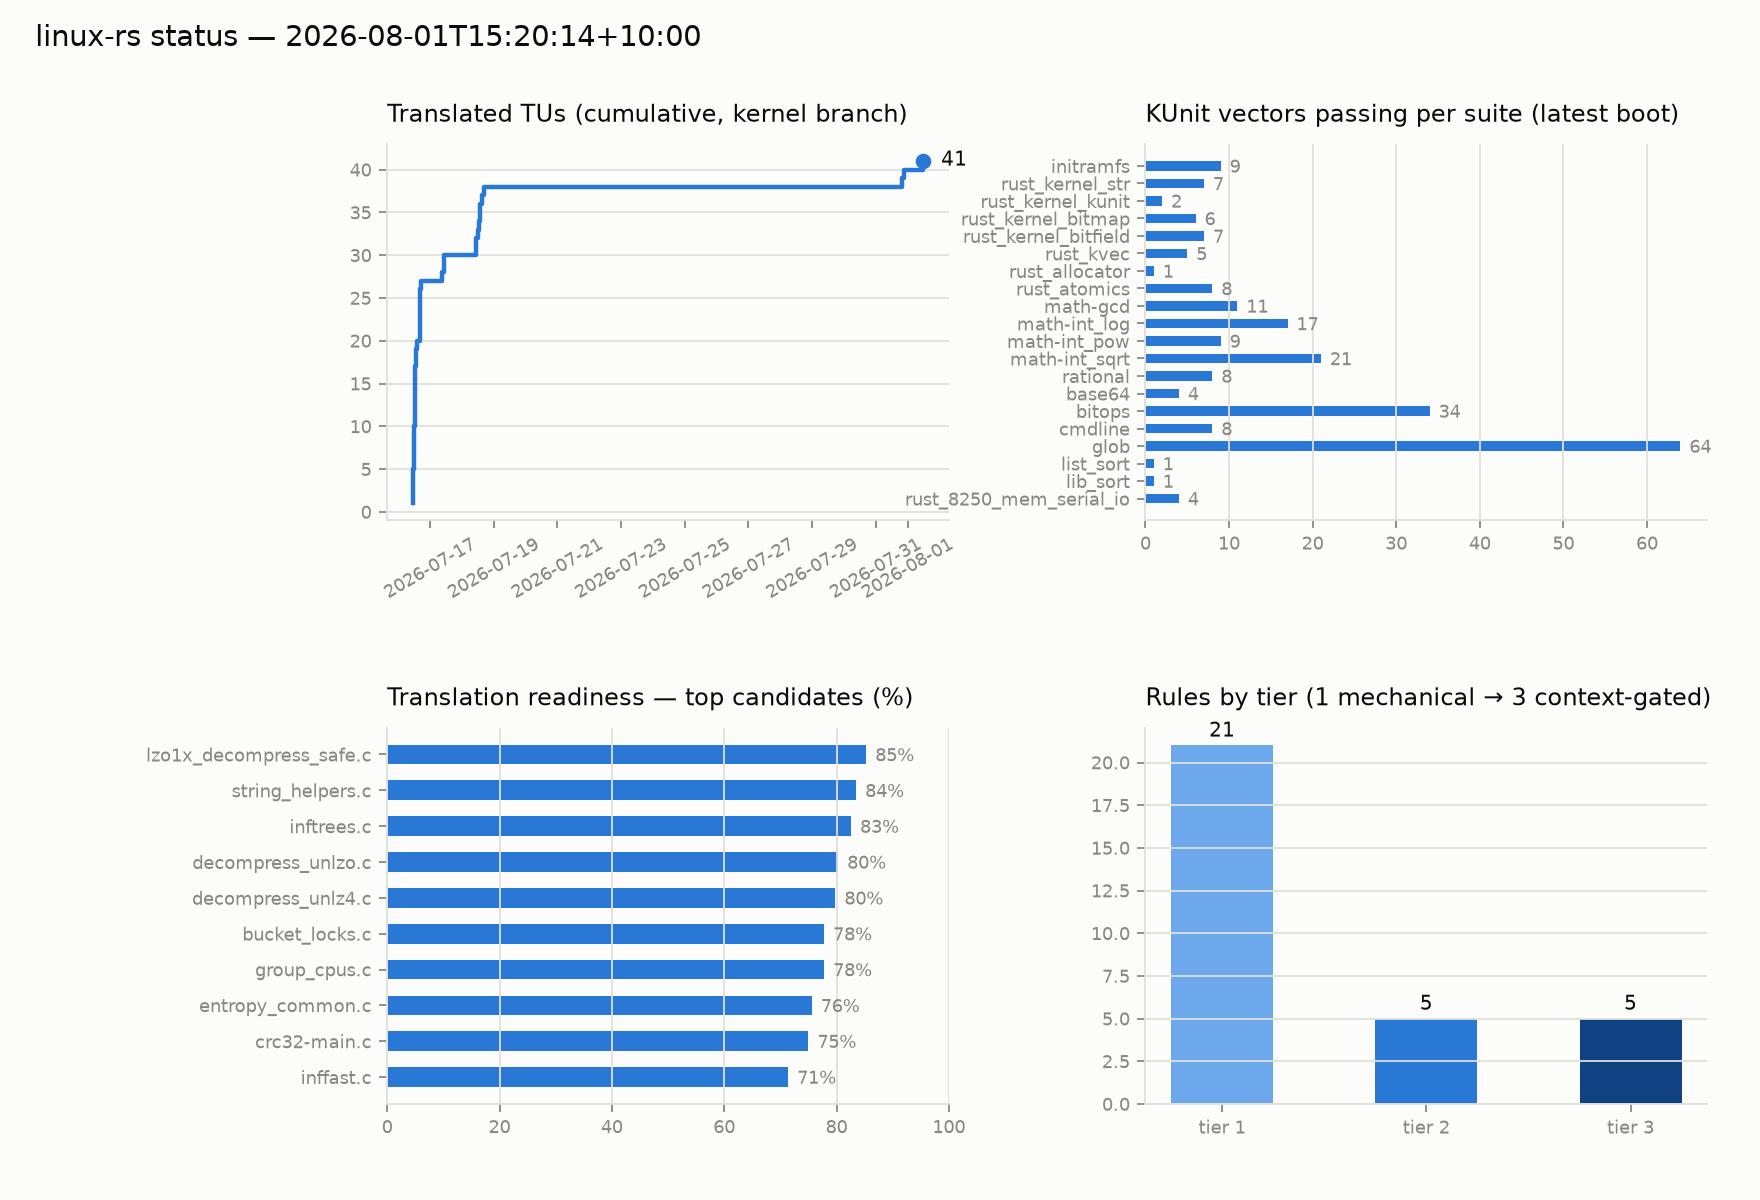
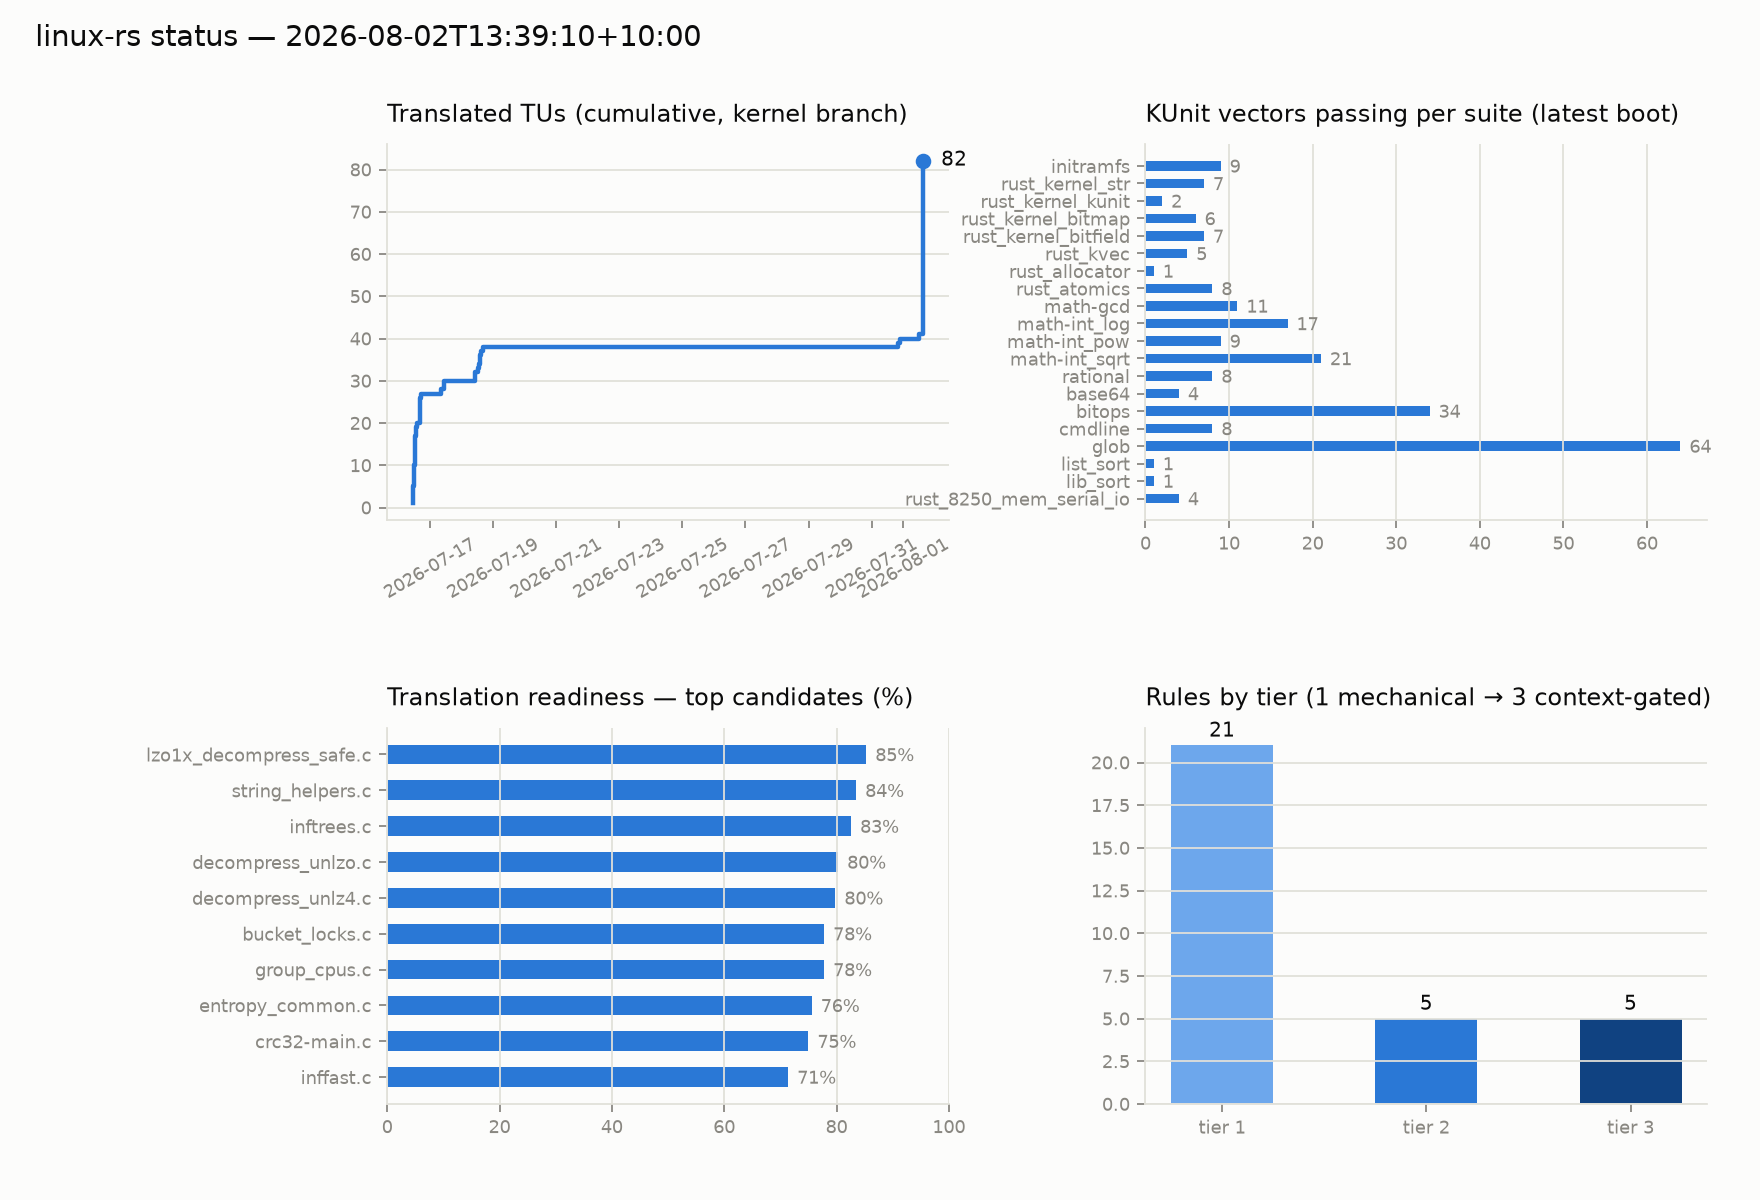
Document #28 multi-file combined-boot test: klist+sys_info+rcuref, 20/20 KUnit
First real test of issue #28's actual ask (multiple c2rust-transpiled
files in one boot, not one-file-per-boot). Clean combined boot; found
and fixed two genuine combination-only bugs (duplicate register
pseudo-globals across TUs, libc2rust_bitfields.rlib never linked into
vmlinux) — the latter already landed on the kernel tree separately.

Changed region(s): [[0.1875, 0.1233, 0.5312, 0.4933]]

diff --git a/docs/combined-boot-multi-file-2026-08-02.md b/docs/combined-boot-multi-file-2026-08-02.md
@@ -1,0 +1,178 @@
+# Combined-image boot test: 3 c2rust-transpiled files in one image
+
+First real test of issue #28's actual ask — multiple c2rust-transpiled
+files wired into *one* kernel image and boot-screened together, as
+opposed to the 22 individual one-file-per-boot attempts documented in
+`combined-boot-attempt-2026-07-18.md`. That doc proved the mechanism
+works per-file; this one proves it still works when files are combined,
+and surfaces two real bugs that only exist at combination time.
+
+## Candidate selection
+
+Per #28's explicit scope limit ("genuinely on/near the current boot
+path, not an arbitrary sample"), a dedicated research pass across the
+14-file individual-candidate shortlist found real boot-path-execution
+evidence for only two files, plus one link-clean-only filler kept to
+exercise the 3-file batching mechanism itself:
+
+- **`lib/klist.c`** — proven executed: caused a real crash in an
+  earlier bisection (`load_page_fault` inside `klist_add_tail`, via
+  `get_current()`'s now-fixed accessor bug), reached through
+  `spin_unlock()`'s preemption-check path hit by every `klist_add_head`/
+  `klist_add_tail` call during real `device_add()` traffic at boot.
+- **`lib/sys_info.c`** — proven `.initcall4.init` entry that executes
+  every boot (though its 3 real functions are panic/hung-task/watchdog
+  path only, not exercised by a clean boot).
+- **`lib/rcuref.c`** — link-clean filler, no proven natural-boot-path
+  execution; included specifically to test whether the batching
+  mechanism itself (3 files, 1 Kconfig gate, 1 boot) scales, not to
+  claim its own code ran.
+
+Worktree `combined-boot-28`, branch `agent-combined-boot-28`, based on
+`linux-rs/phase2-gcd`. New `CONFIG_RUST_C2RUST_BOOT_TEST` in
+`lib/Kconfig`; `lib/Makefile` pulled all three `.o`s out of their
+bundled `lib-y`/`obj-y` lines and gated `klist_rs.o`/`sys_info_rs.o`/
+`rcuref_rs.o` on the new config.
+
+## Fresh transpile, not the 2026-07-18 baseline
+
+Re-ran `c2rust_reference_check.py` at current `awtoau/c2rust` HEAD
+(`7a7b63b804e3`) rather than reusing the old doc's cached output.
+`REFERENCE-CHECK: 3/3 OK`. Two real transpiler improvements confirmed
+by diffing against the fixes the old doc had to hand-apply:
+
+- `klist.c`'s `get_current()` now compiles directly to
+  `asm!("mv {0}, tp", ...)` — the exact hand-fix the original attempt
+  needed is now the transpiler's own default output.
+- `sys_info.c`'s `sys_info_sysctl_init` now carries
+  `#[link_section = ".init.text"]` automatically — the `__init`
+  section-drop bug the 2026-07-18 doc found and hand-fixed is gone.
+- `sys_info_rs.rs`'s 7 `BitfieldStruct`-derived structs (`task_struct`,
+  `mmap_action`, `kobject`, etc.) needed **no** manual opaquing this
+  time — `c2rust_bitfields`/`c2rust_bitfields_derive` are now wired
+  into the real Kbuild path (issue #55), so the file built clean
+  raw. (This uncovered its own bug at link time — see below.)
+
+## Fix classes actually needed, per file
+
+**`lib/klist_rs.rs`** (6 fixes, all previously-documented classes):
+stripped an unused `#![feature(label_break_value)]`; converted 13
+`#[export]` sites to `#[no_mangle]` (no `EXPORT_SYMBOL` in the C
+original visible to bindgen); rewrote `LIST_POISON1`/`LIST_POISON2`
+from `.offset()`-on-bare-integer (E0080, fails const-eval) to plain
+`wrapping_add`+cast; renamed a parameter shadowing c2rust's own
+generated `klist` type; deleted the dead `current_stack_pointer`
+register-pseudo-global; fixed 14 RISC-V asm bracket-addressing sites
+(`[{N}]` → `0({N})`, issue #29's class). Also removed the 4
+Zacas/Zabha ISA-guard `if riscv_has_extension_unlikely(...) {amocas
+fast path} else {LR/SC fallback}` wrappers down to just the
+unconditional LR/SC fallback — LLVM rejects the `amocas.*`
+instructions regardless of the runtime guard (issue #29).
+
+**`lib/sys_info_rs.rs`**: zero fixes needed — built clean as raw
+transpile output (both gap classes the 2026-07-18 doc hit for this
+file are now transpiler-fixed, see above).
+
+**`lib/rcuref_rs.rs`** (4 fixes): stripped the same unused
+`#![feature(label_break_value)]`; `#[export]` → `#[no_mangle]` (2
+sites; c2rust's own `--extern` type didn't match the real bindgen
+signature — same class as klist); two `kernel::warn_on!(...) != 0`
+sites fixed to plain `kernel::warn_on!(...)` (the macro already
+returns `bool`, c2rust assumed C's int-returning `WARN_ON()`); 12
+RISC-V asm bracket-addressing sites. Left the 4 Zacas/Zabha guard
+blocks in place unlike klist — this file compiled clean with them
+present (LLVM only rejected the instruction encoding in klist's
+specific codegen shape, not here), so removal wasn't required to reach
+a working build and was skipped to avoid the syntax-fragile
+brace-surgery this class of edit carries.
+
+## Two real bugs found only by combining files
+
+Neither is visible from any single-file boot test — both are genuine
+"combination reveals what isolation hides" findings, which is the
+whole point of #28.
+
+### 1. Duplicate fabricated register-pseudo-globals across TUs
+
+`rcuref_rs.rs` and `sys_info_rs.rs` each independently declared their
+own `#[no_mangle] pub static mut riscv_current_is_tp` /
+`current_stack_pointer` — c2rust emits these per-TU whenever a file's
+header chain pulls in GCC's `register ... __asm__("tp")` pseudo-global
+declarations, matching the same class the 2026-07-18 doc names for
+`sys_info.c` ("declaration-only, deleted outright"). Linking one such
+file is fine; linking two produces `ld.lld: error: duplicate symbol:
+current_stack_pointer` / `riscv_current_is_tp`. Grep-confirmed neither
+static is ever read in either file (no `get_current()` accessor call
+anywhere) before deleting both declarations from both files — same
+"verify unused before deleting" discipline as every prior file in this
+series.
+
+### 2. `libc2rust_bitfields.rlib` was never linked into `vmlinux`
+
+A genuine Kbuild gap, invisible until two-plus files actually exercise
+`c2rust_bitfields::FieldType::get_field` through the real link path
+(no individual-file attempt before this one built cleanly *and* got
+all the way to a full `vmlinux` link with a `BitfieldStruct` derive
+still present — earlier files either opaqued the bitfielded structs
+away or predate issue #55's Kbuild wiring entirely).
+
+Root cause: `rust/Makefile` built `libc2rust_bitfields.rlib` via
+`cmd_rustc_targetlibrary` (`--emit=link`, `always-$(CONFIG_RUST) +=`)
+— this produces an rlib with metadata for `--extern` typechecking, but
+that build product is never added to `obj-y`/`libs-y`, so its compiled
+code never reaches the final `ld`. The derive macro's generated
+`set_field` gets monomorphized directly into each caller's own crate
+(shows up as a local `T` symbol per-TU), but the `FieldType::get_field`
+trait method (defined once in the `c2rust_bitfields` crate itself,
+no `#[inline]`) stays a real external symbol reference — fine as long
+as nothing needs it resolved, which no earlier individual boot test
+ever triggered.
+
+```
+ld.lld: error: undefined symbol: <bool as c2rust_bitfields::FieldType>::get_field
+>>> referenced by sys_info_rs.o:(<sys_info_rs::mmap_action>::hide_from_rmap_until_complete)
+ld.lld: error: undefined symbol: <u32 as c2rust_bitfields::FieldType>::get_field
+>>> referenced by sys_info_rs.o:(<sys_info_rs::kobject>::state_in_sysfs)
+```
+
+Fixed the same way this tree already links `bindings.o`/`kernel.o`/
+`zerocopy.o`: changed the build rule to emit a real linkable
+`c2rust_bitfields.o` via `cmd_rustc_library` (which emits both
+`--emit=obj` and `--emit=metadata=...rmeta`, so `--extern
+c2rust_bitfields` consumers are unaffected) and added it to
+`obj-$(CONFIG_RUST)` so it archives into `built-in.a` through the
+normal path. `rust/Makefile` diff isolated from every #28-specific
+file and landed on `linux-rs/phase2-gcd` directly as its own commit
+(`ee679b5bc167`), verified via a full `dev.py check` on the main tree
+(zero regression: `TU PROVENANCE PASS (41 total: 41 hand, 0 c2rust, 0
+c2rust+hand-fix)`, `ORACLE PASS (20 suites)`, `INIT REACHED`) before
+being pushed — this fix is real and general, not scoped to #28's three
+files, so it belongs on the main tree independent of whether/how #28
+itself ever lands.
+
+## Outcome: clean combined boot, 20/20 KUnit suites
+
+- `make ARCH=riscv LLVM=1 -j32`: `arch/riscv/boot/Image` produced.
+- `llvm-nm vmlinux.unstripped`: all 18 target symbols present and
+  `T` — 13 `klist_*` functions, `sys_info`/`sys_info_parse_param`/
+  `sysctl_sys_info_handler`, `rcuref_get_slowpath`/
+  `rcuref_put_slowpath`. Plain-C `klist.o`/`sys_info.o`/`rcuref.o`
+  confirmed absent from the tree.
+- `scripts/boot_qemu.py --tree linux-riscv-worktrees/combined-boot-28
+  --run-id combined-boot-28`: boots clean, **20/20 KUnit suites pass**
+  (0 fail), `initramfs init reached, PID 1 alive` confirms INIT
+  REACHED, zero panic/oops/BUG/WARN in the log (only "panic" match is
+  the `panic=-1` boot argument). Boot-history row auto-committed/
+  pushed by `boot_qemu.py`. Archived at
+  `docs/status/boot-logs/20260802T133723.985524-84078+1000-combined-boot-28.log`.
+
+Confirms the "many files per boot, one screening pass" mechanism #28
+asked about actually works — three independently-transpiled files,
+two with proven boot-path execution and one link-clean filler, boot
+together cleanly in one image after fixing the file-level gaps (all
+previously-documented classes, applied faster given fresh transpile
+already closed two of them) plus the two genuinely new
+combination-only bugs above (both now fixed at the root: the register-
+pseudo-global duplication by deleting dead per-file declarations, the
+`c2rust_bitfields` link gap by a general Kbuild fix already landed on
+the main tree).

diff --git a/docs/STATUS.md b/docs/STATUS.md
@@ -1,4 +1,4 @@
-# Status — 2026-08-01T15:20:14+10:00
+# Status — 2026-08-02T13:39:10+10:00
 
 ![status](status/status.png)
 
